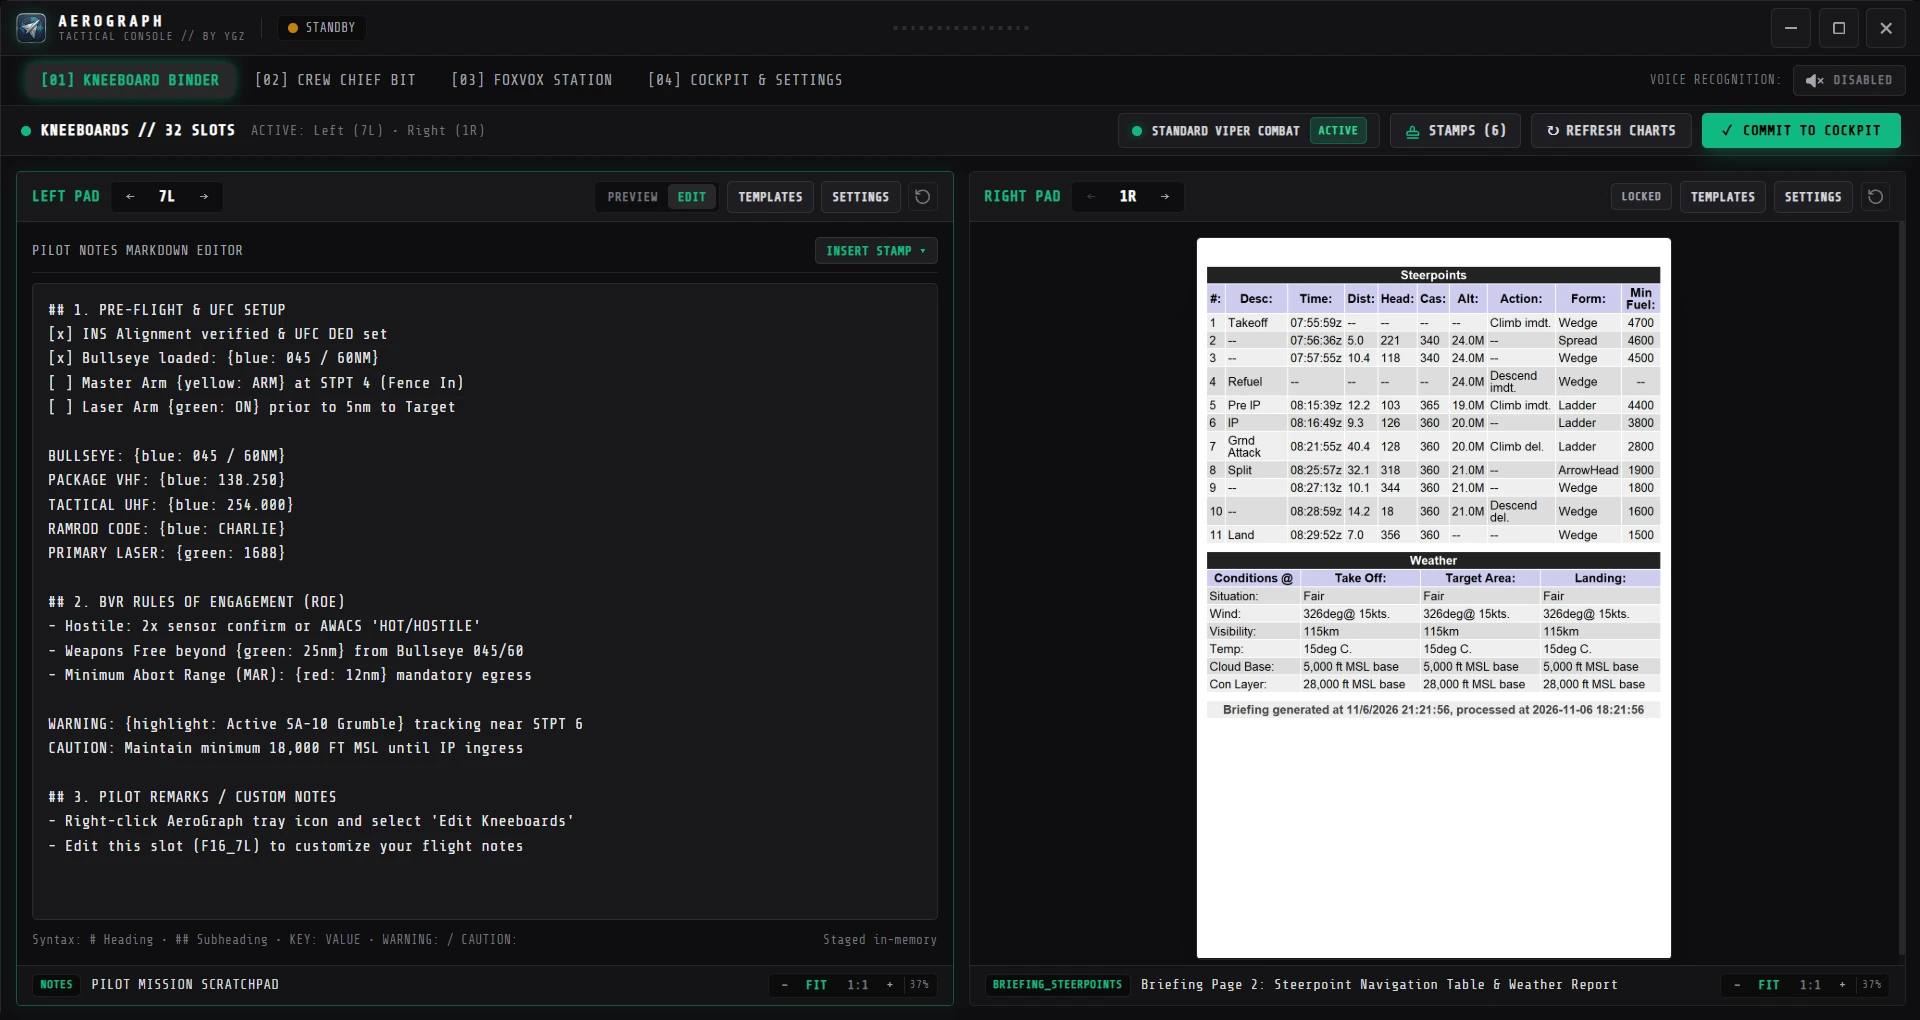
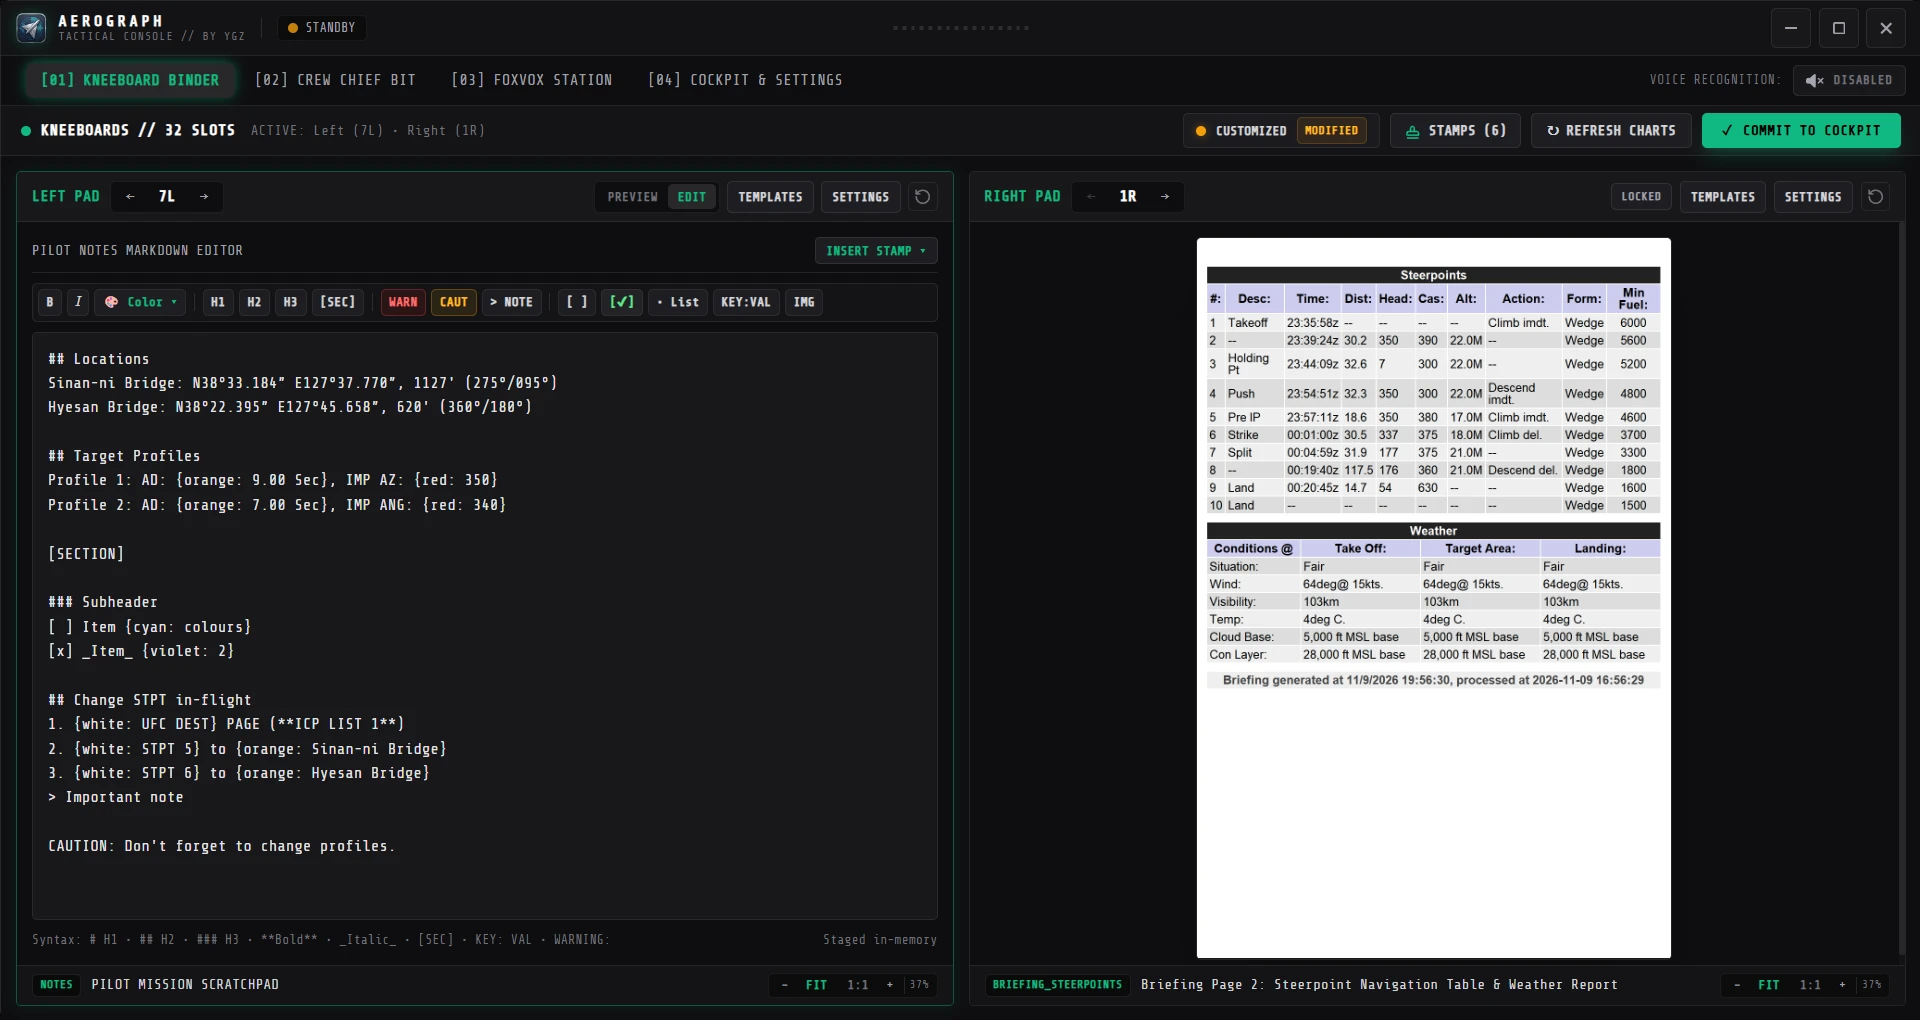
docs: update README and console screenshots for navigation, audio cues, and settings

diff --git a/README.md b/README.md
@@ -229,7 +229,7 @@ Whenever you plan a mission in Campaign or Tactical Engagement:
   <em>Click the 'Print' button in the BMS Briefing window to generate User/Briefings/briefing.txt.</em>
 </p>
 
-4. Falcon BMS immediately outputs `briefing.txt`. AeroGraph detects the change in milliseconds, renders your complete kneeboard suite, and injects textures directly into your cockpit. It can take a few seconds, just wait for `DATA` sound (you'll understand when you hear it), and than you are ready for departure!
+4. Falcon BMS immediately outputs `briefing.txt`. AeroGraph detects the change in milliseconds, plays an audible generation chime, renders your complete kneeboard suite, and injects textures directly into your cockpit. When texture injection finishes, the completion chime (the warning with "DATA" callout) confirms your kneeboards are loaded and you are ready for departure!
 
 ---
 
@@ -323,8 +323,11 @@ start_with_windows = false
 # Live file monitoring on User/Briefings/briefing.txt
 auto_kneeboards = true
 
-# Sound cue playback ("DATA" sound effect) on kneeboard texture regeneration
+# Sound cue playback (commit start chime & init completion chime) on kneeboard texture regeneration
 play_sound_on_update = true
+
+# Invert Alt + Scroll Wheel page navigation direction in the Kneeboard Binder
+invert_kneeboard_scroll = false
 
 # Graphical Tactical Avionics Console preferences
 gui_open_on_startup = false
@@ -374,6 +377,7 @@ The **Kneeboard Binder** is an interactive dual-station kneepad viewer and layou
   - **Zoom In (`+`) & Zoom Out (`-`)**: Smooth granular zoom with click-and-drag canvas panning. You can also use `CTRL+Scroll Wheel` to control zoom levels.
 - **Rapid Navigation & Radial Dial**:
   - Step forward and backward through pages using the navigation arrows or the `Left` / `Right` keyboard arrow keys.
+  - Hold `Alt` and scroll the mouse wheel forward or backward to flip pages rapidly (wheel forward advances pages, wheel backward steps back; direction can be reversed in Cockpit Settings).
   - Click any page badge (e.g. `1L`, `5R`) to open the **Circular Page Dial**, enabling instant 1-click jumps across all 16 slots.
 - **Staged In-Memory Editing**: Any adjustments made to slots, notes, or layouts remain safely staged in memory without writing directly to game files until you commit.
 - **Action Ribbon Controls**:
@@ -579,9 +583,10 @@ The **Cockpit Settings** view provides console personalization and background si
   - **Combat Crimson** (`#F43F5E`): High-urgency master caution emergency lighting.
 - **Cockpit Acoustic Feedback Relays**: Realistic mechanical toggle clicks on switch movements synthesized via Web Audio API, with adjustable master volume slider and a **Test Relay Clunk / Chime** button.
 - **Flight Sim Automation & Zero-Cost Dormancy**:
-  - **3D Cockpit Auto-Dock**: Automatically closes / docks the console window when Falcon BMS enters 3D flight (`in_3d != 0`), ensuring zero GPU or CPU competition during the game runtime. Restores automatically when exiting back to the 2D UI.
+  - **3D Cockpit Auto-Dock**: Automatically closes / docks the console window when Falcon BMS enters 3D flight, ensuring zero GPU or CPU competition during the game runtime. When exiting 3D flight back to the 2D UI, the console window is automatically restored if it was open prior to entering 3D.
   - **Auto-Engage Voice Recognition**: Automatically engages voice recognition and controller polling when Falcon BMS launches, and automatically disengages voice recognition into zero-CPU sleep when BMS closes. You can still manually engage voice anytime for offline testing!
-  - **Auto-Kneeboards**: Continuously monitors `User/Briefings/briefing.txt` and plays the "DATA" sound effect upon regeneration.
+  - **Invert Alt + Scroll Direction**: Reverses the page flip direction when scrolling pages in the Binder view with the `Alt` key held.
+  - **Auto-Kneeboards**: Continuously monitors `User/Briefings/briefing.txt`. Plays an audible chime start cue when a new briefing is detected, and plays the "DATA" sound effect upon regeneration.
   - **Foreground Boot**: Opens the Tactical Console window automatically on application launch.
   - **Start with Windows**: Automatically runs AeroGraph minimized to system tray on Windows startup.
 - **Diagnostics & System Logs**:
